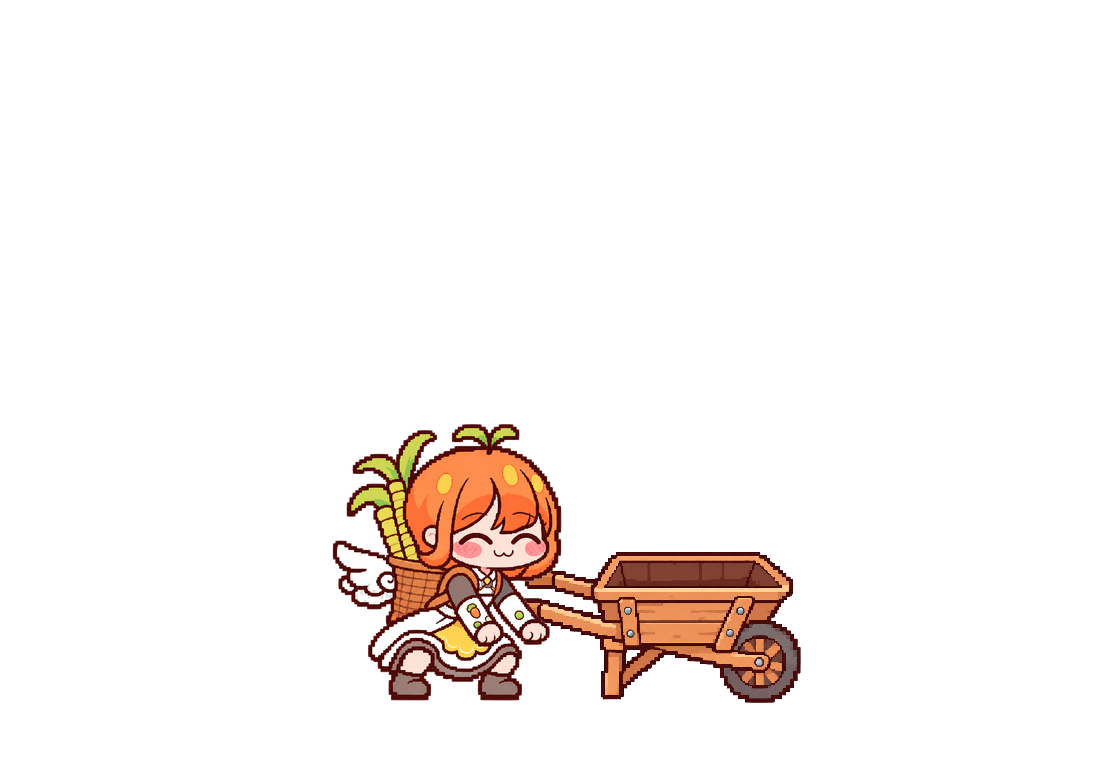
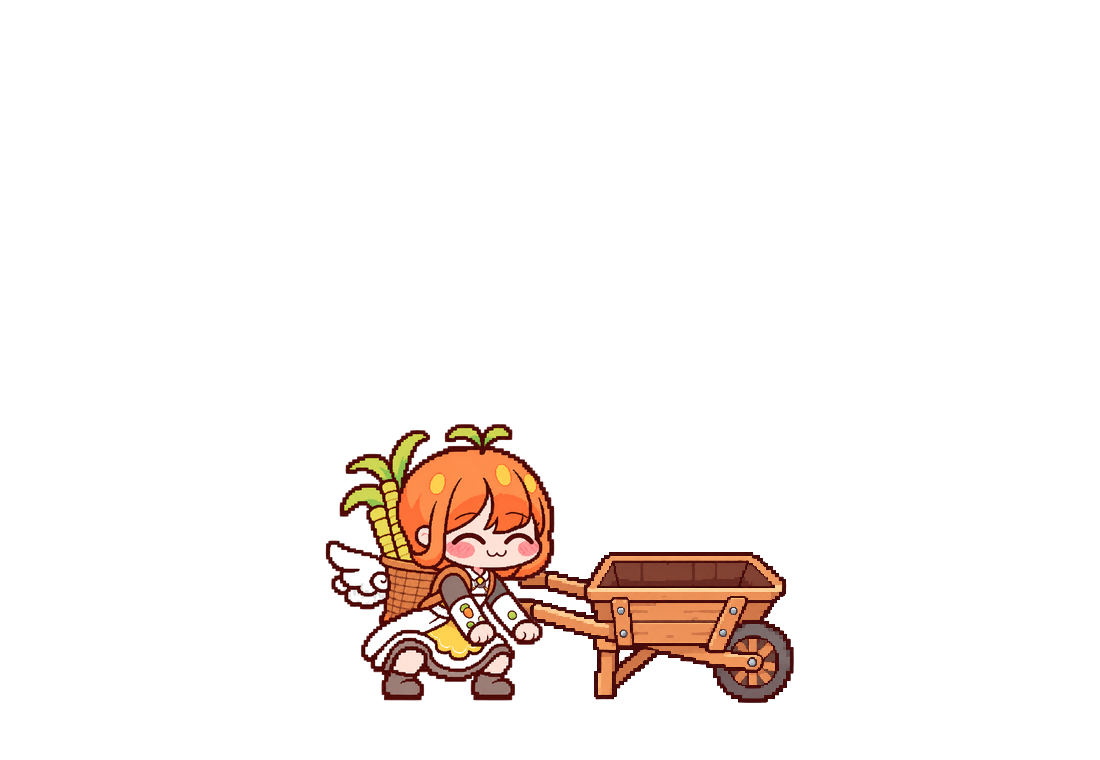
수레 비우기: 캬롯은 제자리, 손잡이 들어 덜컹덜컹 털어 쏟기
- 공중에 뜨던 폴짝 제거, 발 위치 고정
- 주먹 높이만큼만 기울고(최대 16°) 바퀴가 그만큼 살짝 구름
- 들어올린 뒤 위아래로 세 번 털어 짐을 쏟음

Changed region(s): [[0.2782, 0.5447, 0.7418, 0.9382]]

diff --git a/tools/dump_compose.py b/tools/dump_compose.py
@@ -88,15 +88,16 @@ def compose_lift(pose, char_h=320, foot_x=440, wheel_x=None, want=None):
     return best, wx
 
 
-# 손잡이 번쩍 들어 쏟기: (자세, ms). 기울기는 주먹 높이로 정하고(compose_lift), 바퀴는 화면 끝에 둔 채 캐릭터가 따라 붙는다.
-# 3번 칸(가장 높이 든 순간)에 짐이 쏟아진다.
-SEQ = [("push_a", 160, None), ("lift_crouch", 200, None), ("lift_up1", 180, None), ("lift_up2", 600, 40), ("lift_ease", 300, None), ("push_a", 380, None)]
+# 손잡이 들어 털어 쏟기: 캬롯은 바닥에 선 자리 그대로(발 위치 고정), 주먹 높이만큼만 수레가 기울고(최대 16° 안팎)
+# 바퀴가 그만큼 살짝 구른다. 들어올린 뒤 위아래로 덜컹덜컹 털어서 짐을 쏟는다(3번 칸부터 짐이 날아감).
+SEQ = [("push_a", 160), ("lift_crouch", 200), ("lift_up1", 160), ("lift_up2", 220), ("lift_up1", 110), ("lift_up2", 130),
+       ("lift_up1", 110), ("lift_up2", 220), ("lift_ease", 300), ("push_a", 380)]
 
 if __name__ == "__main__":
     meta = []
-    for i, (pose, ms, want) in enumerate(SEQ):
-        t, up = compose_lift(pose, want=want)
-        im, foot, binp, wx = compose(pose, t, lift=up if want is not None else 0)
+    for i, (pose, ms) in enumerate(SEQ):
+        t, wx = compose_lift(pose)
+        im, foot, binp, _ = compose(pose, t, wheel_x=wx)
         im.save(os.path.join(FR, f"dump_{i}.png"))
         meta.append({"ms": ms, "tilt": t, "foot": [round(foot[0], 1), foot[1]], "bin": [round(binp[0], 1), round(binp[1], 1)]})
     for j in range(len(SEQ), 20):

diff --git a/tools/web_extra.py b/tools/web_extra.py
@@ -138,7 +138,7 @@ def build(out_dir, stamp):
                 dt = 0.08; fl[4] += 3.2 * dt; fl[1] += fl[3] * CHAR_H * dt; fl[2] += fl[4] * CHAR_H * dt; fl[6] += fl[5] * dt
                 sc.item(c, fl[0], fl[1], fl[2], fl[6])
             put(f"x_dump_{n}", c.convert("RGB"), round(f["ms"] / steps)); n += 1
-    motions.append({"id": "barrow_dump", "title": "삭제 끝 → 손잡이 번쩍 들어 쏟기", "frames": out}); out = []
+    motions.append({"id": "barrow_dump", "title": "삭제 끝 → 손잡이 들어 털어 쏟기", "frames": out}); out = []
 
     # 3) 햇님이
     hat = [load(os.path.join(A, "garden", f"hatnim_{i}.png")) for i in range(6)]
